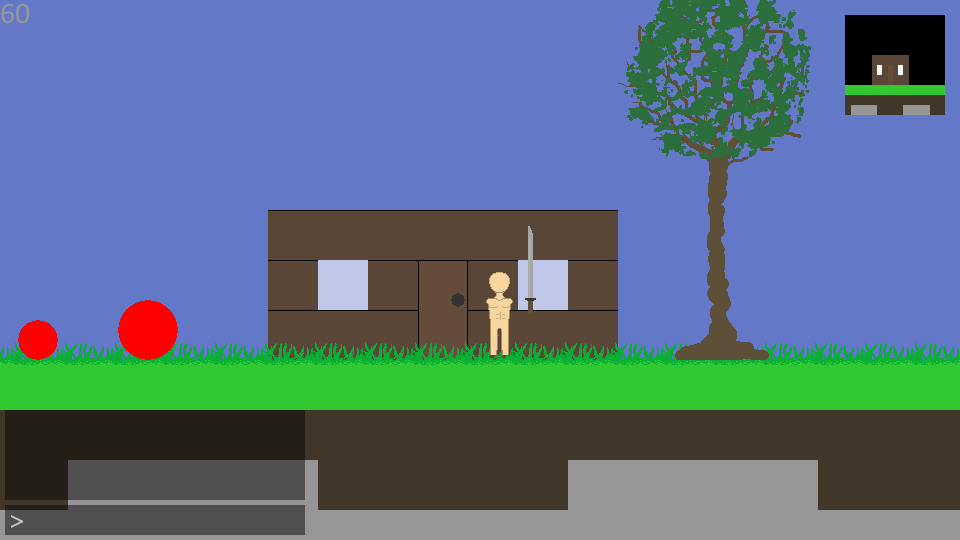
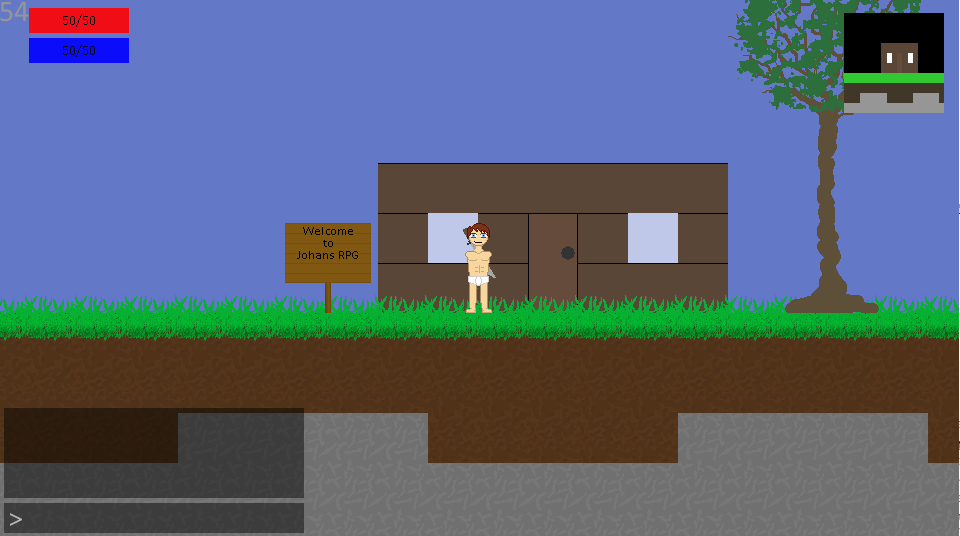
New block appearance and removed target health/mana bar and playername until they are fully implemented

diff --git a/src/game/__init__.py b/src/game/__init__.py
@@ -229,14 +229,14 @@ class GameClient():
         self.guiElements.add(self.miniMap)
 
         # Username
-        xy = (10,10)
-        font = globs.getFont("calibrib", 20)
-        image = font.render(globs.charactername, True, (0,0,0))
-        wh = image.get_size()
-        self.username_text = Sprite(xy, wh)
-        self.username_text.image.fill((255,0,255))
-        self.username_text.image.blit(image, (0,0))
-        self.guiElements.add(self.username_text)
+        #xy = (10,10)
+        #font = globs.getFont("calibrib", 20)
+        #image = font.render(globs.charactername, True, (0,0,0))
+        #wh = image.get_size()
+        #self.username_text = Sprite(xy, wh)
+        #self.username_text.image.fill((255,0,255))
+        #self.username_text.image.blit(image, (0,0))
+        #self.guiElements.add(self.username_text)
 
 
         # Healthbar
@@ -254,16 +254,16 @@ class GameClient():
         self.buttons.add(self.manabar)
 
         # Target Healthbar
-        xy = (150, 10)
-        wh = (100,25)
-        self.target_healthbar = ResourceBar(xy, wh, bgColor=(20,20,20), fgColor=(255,0,0))
-        self.guiElements.add(self.target_healthbar)
+        #xy = (150, 10)
+        #wh = (100,25)
+        #self.target_healthbar = ResourceBar(xy, wh, bgColor=(20,20,20), fgColor=(255,0,0))
+        #self.guiElements.add(self.target_healthbar)
 
         # Target Manabar
-        xy = (150, 40)
-        wh = (100,25)
-        self.target_healthbar = ResourceBar(xy, wh, bgColor=(20,20,20), fgColor=(0,0,255))
-        self.guiElements.add(self.target_healthbar)
+        #xy = (150, 40)
+        #wh = (100,25)
+        #self.target_healthbar = ResourceBar(xy, wh, bgColor=(20,20,20), fgColor=(0,0,255))
+        #self.guiElements.add(self.target_healthbar)
 
         # System Menu
         self.systemMenu = SystemMenu(self)

diff --git a/src/game/gui.py b/src/game/gui.py
@@ -63,7 +63,7 @@ class ResourceBar(Button):
 		self.maxvalue = maxvalue
 		if self.last != value:
 			self.last = value
-			self.image.fill(self.bgColor)
+			self.draw()
 
 			percentage = self.last/float(self.maxvalue)
 			#print(healthpercentage)
@@ -91,10 +91,17 @@ Chat related
 '''
 
 class ChatBubble(Sprite):
-	def __init__(self):
-		Sprite.__init__(self, (0,0), (100,100))
+	def __init__(self, character):
+		Sprite.__init__(self, (0,0), (100,30))
+		self.owner = character
 		globs.currentgame.guiElements.add(self)
 		self.image.fill((0,0,0))
+
+	def blit(self, screen):
+		x = self.owner.rect.x-globs.cameraX-self.image.get_width()/2+self.owner.image.get_width()/2
+		y = self.owner.rect.y-globs.cameraY-self.image.get_height()-10
+		self.rect.topleft = (x, y)
+		Sprite.blit(self, screen)
 
 class ChatInputBox(InputBox):
 	def __init__(self, xy, wh):
@@ -119,7 +126,7 @@ class ChatInputBox(InputBox):
 			globs.currentgame.chatBox.draw()
 			self.inputText = ""
 		self.alpha = self.baseAlpha
-		ChatBubble()
+		ChatBubble(globs.character)
 		self.draw()
 
 		globs.currentgame.chatBox.alpha = globs.currentgame.chatBox.baseAlpha

diff --git a/src/game/entities/monsters.py b/src/game/entities/monsters.py
@@ -6,7 +6,7 @@ from game.entities.weapons import Sword
 import globals as globs
 
 class Monster(LivingEntity):
-	def __init__(self, xy, wh, health, attackArea=1600):
+	def __init__(self, xy, wh, health, attackArea=2000):
 		LivingEntity.__init__(self, xy, wh, (0,255,0), health)
 
 		self.attackArea = Sprite((0,0), (attackArea, attackArea))
@@ -53,16 +53,9 @@ class Monster(LivingEntity):
 	def runTowardsPlayer(self):
 		pass
 
-	def updateHurtArea(self):
-		x = self.rect.x - (self.hurtAreaSize/2)
-		y = self.rect.y - (self.hurtAreaSize/2)
-		self.rect.topleft = (x,y)
-		print("x:" + str(x) + " y:" + str(y))
-		self.hurtArea.worldBlit()
-
 	def updateAttackArea(self):
-		x = self.rect.x-(self.attackArea.image.get_width()/2)-(self.image.get_width()/2)
-		y = self.rect.y-(self.attackArea.image.get_height()/2)-(self.image.get_height()/2)
+		x = self.rect.x-(self.attackArea.image.get_width()/2)+(self.image.get_width()/2)
+		y = self.rect.y-(self.attackArea.image.get_height()/2)+(self.image.get_height()/2)
 		self.attackArea.rect.topleft = (x, y)
 
 

diff --git a/src/game/worldblocks.py b/src/game/worldblocks.py
@@ -37,6 +37,8 @@ class Block_000(Block):
 	'''
 	def __init__(self, xy):
 		Block.__init__(self, xy, bgColor=(150,150,150))
+		self.image = pygame.image.load(globs.datadir+"/png/blocks/stone.png")
+		self.image.convert()
 
 class Block_001(Block):
 	'''
@@ -44,6 +46,8 @@ class Block_001(Block):
 	'''
 	def __init__(self, xy):
 		Block.__init__(self, xy, bgColor=(65,55,40))
+		self.image = pygame.image.load(globs.datadir+"/png/blocks/dirt.png")
+		self.image.convert()
 
 class Block_002(Block):
 	'''
@@ -52,6 +56,8 @@ class Block_002(Block):
 	def __init__(self, xy):
 		Block.__init__(self, xy, bgColor=(50,200,50))
 		grasswh = (60,25)
+		self.image = pygame.image.load(globs.datadir+"/png/blocks/grass.png")
+		self.image.convert()
 		self.grass = Sprite(self.rect.topleft, grasswh)
 		self.grass.image.set_colorkey((255,0,255))
 		self.grass.image = pygame.image.load(globs.datadir+"/png/blocks/002_decoration.png")

diff --git a/src/game/worlds/world1.py b/src/game/worlds/world1.py
@@ -50,8 +50,8 @@ class StartRegion(Region):
 		]
 
 		wentities = [
-					 [entities.BouncyBall, (17,17)],
-					 [entities.BigBouncyBall, (19,17)],
+                    #[entities.BouncyBall, (17,17)],
+                    # [entities.BigBouncyBall, (19,17)],
 					 [entities.TeleportationPad,(25,19),"game.World1_House"],
 					 [entities.WoodenStairs,(7,14),7],
 					 [entities.npcs.Shopkeeper, (28,17)],
